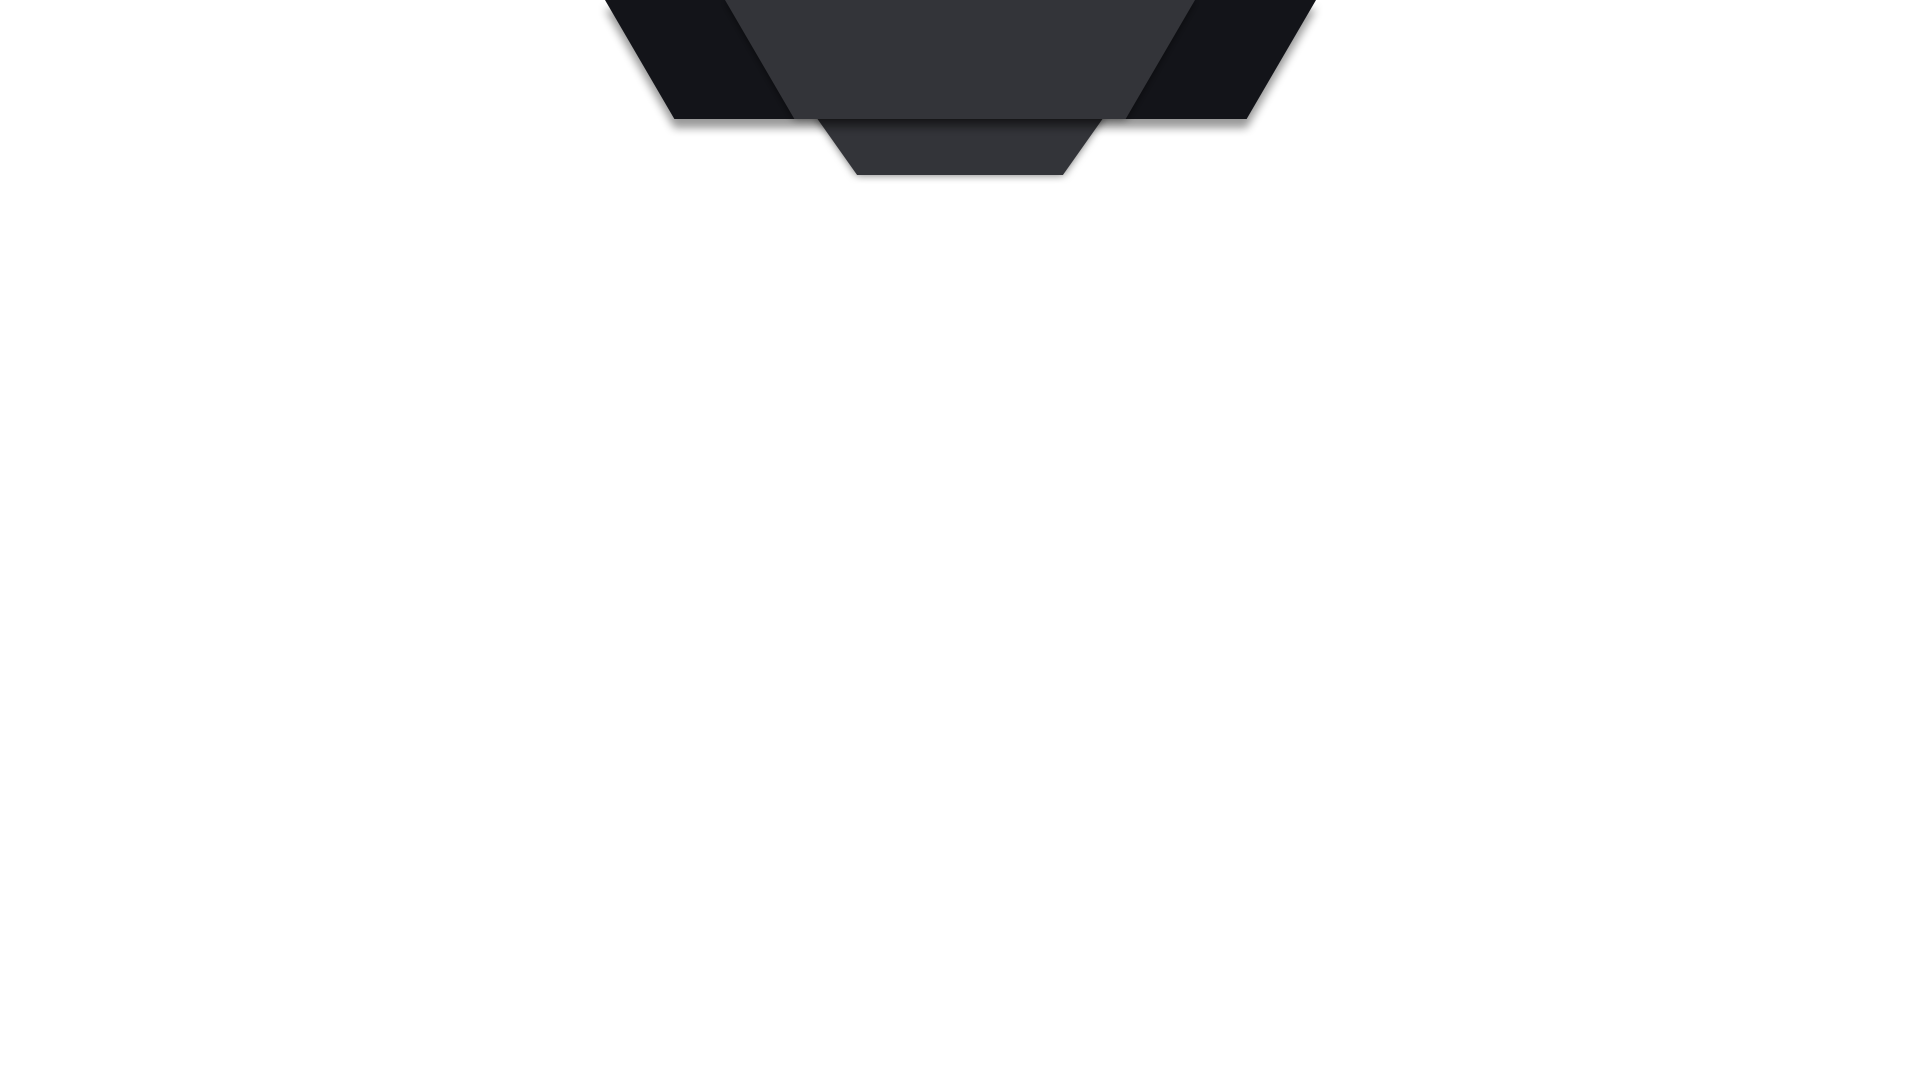
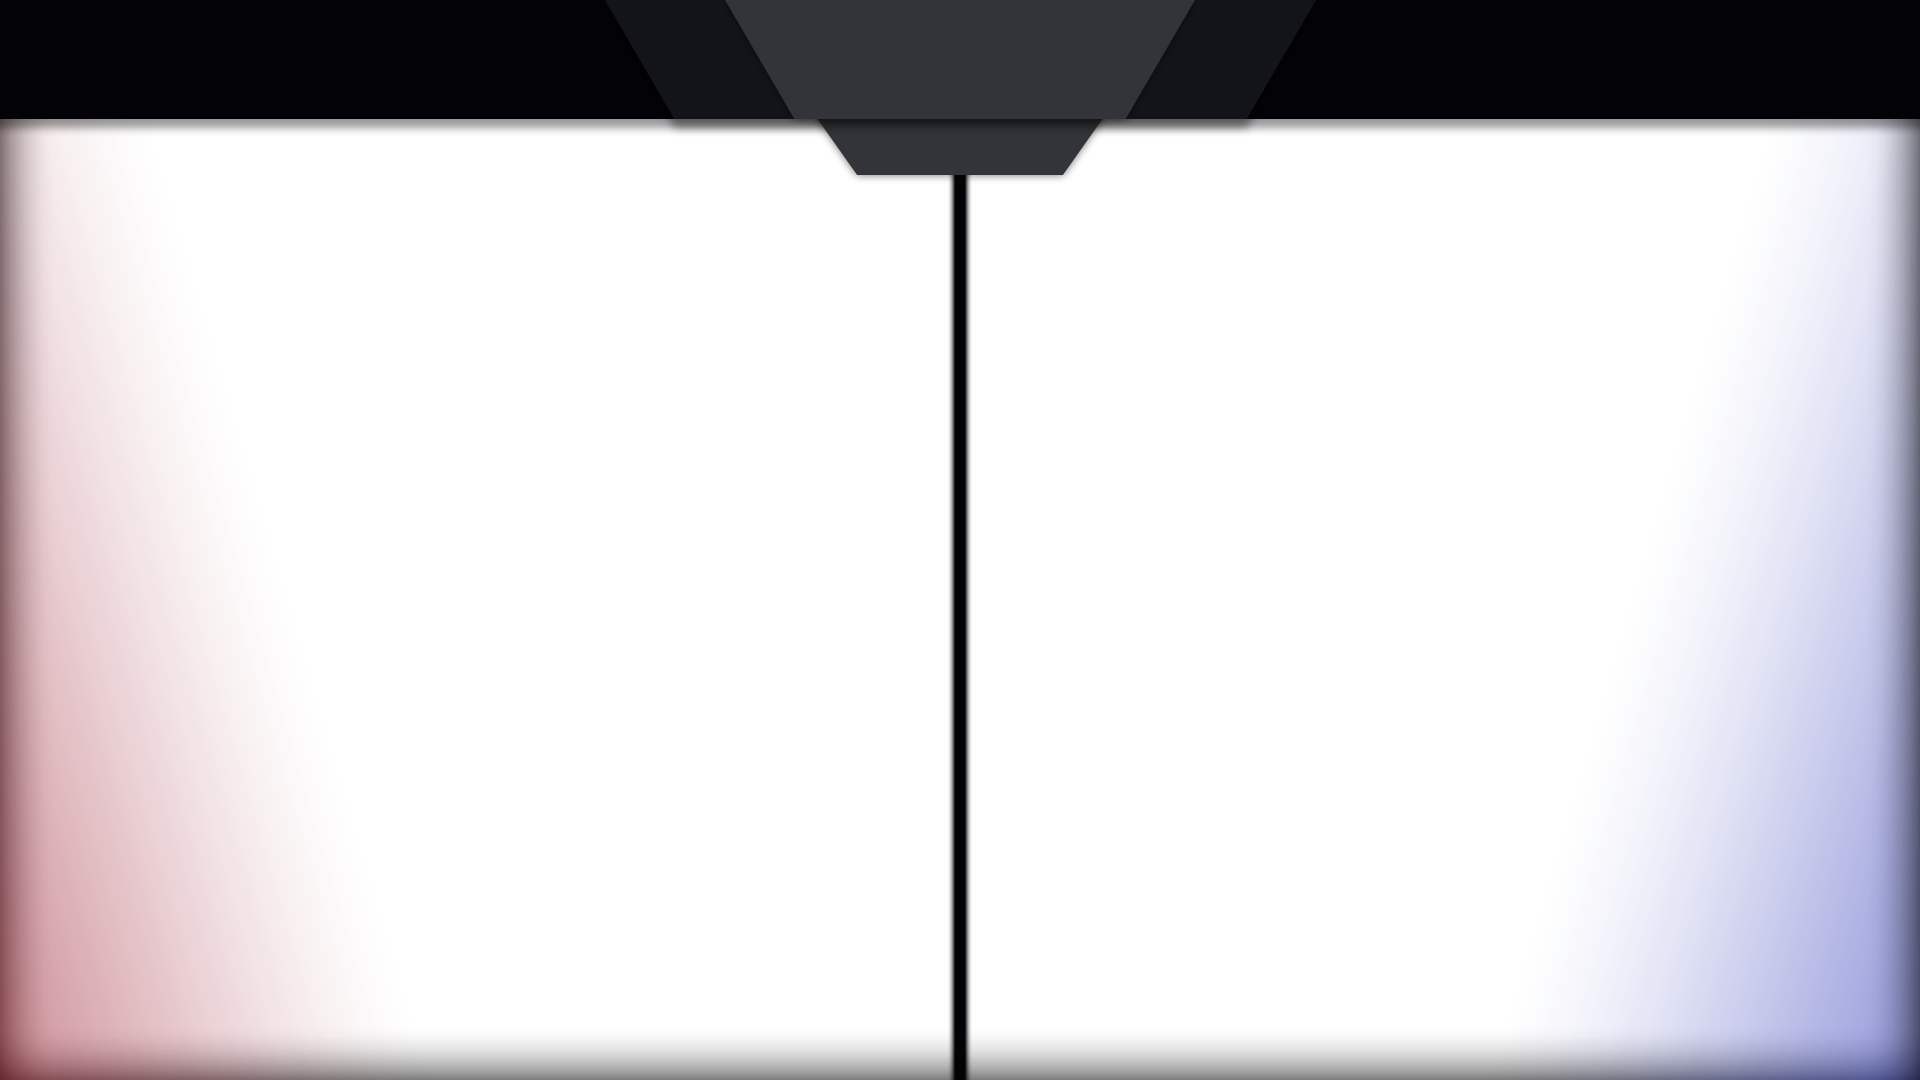
Update layout

Changed region(s): [[0.0, 0.0, 1.0, 1.0]]

diff --git a/placar.css b/placar.css
@@ -103,7 +103,7 @@ input{
 .placar{
     transform: translate(0,0) ;
     font-size: 80px;
-    top: 5px;
+    top: 9px;
     overflow: hidden;
     width: 50;
 }
@@ -150,6 +150,7 @@ input{
 .playerTwitchCrop{
     width: 960px;
     z-index: -1;
+    top: 118px;
 }
 #playerTwitch1{
     left: -480px;
@@ -160,35 +161,35 @@ input{
 #fase{
     white-space: nowrap;
     text-align: center;
-    font-size: 55px;
-    top: 21px;
+    font-size: 52px;
+    top: 25px;
     width: 400px;
 }
 #round{
     white-space: nowrap;
     text-align: center;
     font-size: 33px;
-    top: 126px;
+    top: 129px;
     width: 250px;
 }
 #placar1{
-    right: 235px;
+    right: 232px;
 }
 #placar2{
-    left: 235px;
+    left: 232px;
 }
 
 .nomeCont{
     font-size: 67px;
     text-align: center;
     width: 636px;
-    top: 23px;
+    top: 17px;
 }
 #nome1cont{
-    left: -642px;
+    left: -615px;
 }
 #nome2cont{
-    left: 642px;
+    left: 615px;
 }
 
 

diff --git a/placar.js b/placar.js
@@ -224,8 +224,8 @@ function aplicar(){
 
     if(link1!=""){
         player1Video = new Twitch.Embed("twitch1", {
-            width: 1920,
-            height: 1080,
+            width: 1708,
+            height: 962,
             channel: link1,
             layout: "video",
             autoplay: true,
@@ -235,8 +235,8 @@ function aplicar(){
     
     if(link2!=""){
         player2Video = new Twitch.Embed("twitch2", {
-            width: 1920,
-            height: 1080,
+            width: 1708,
+            height: 962,
             channel: link2,
             layout: "video",
             autoplay: true,
